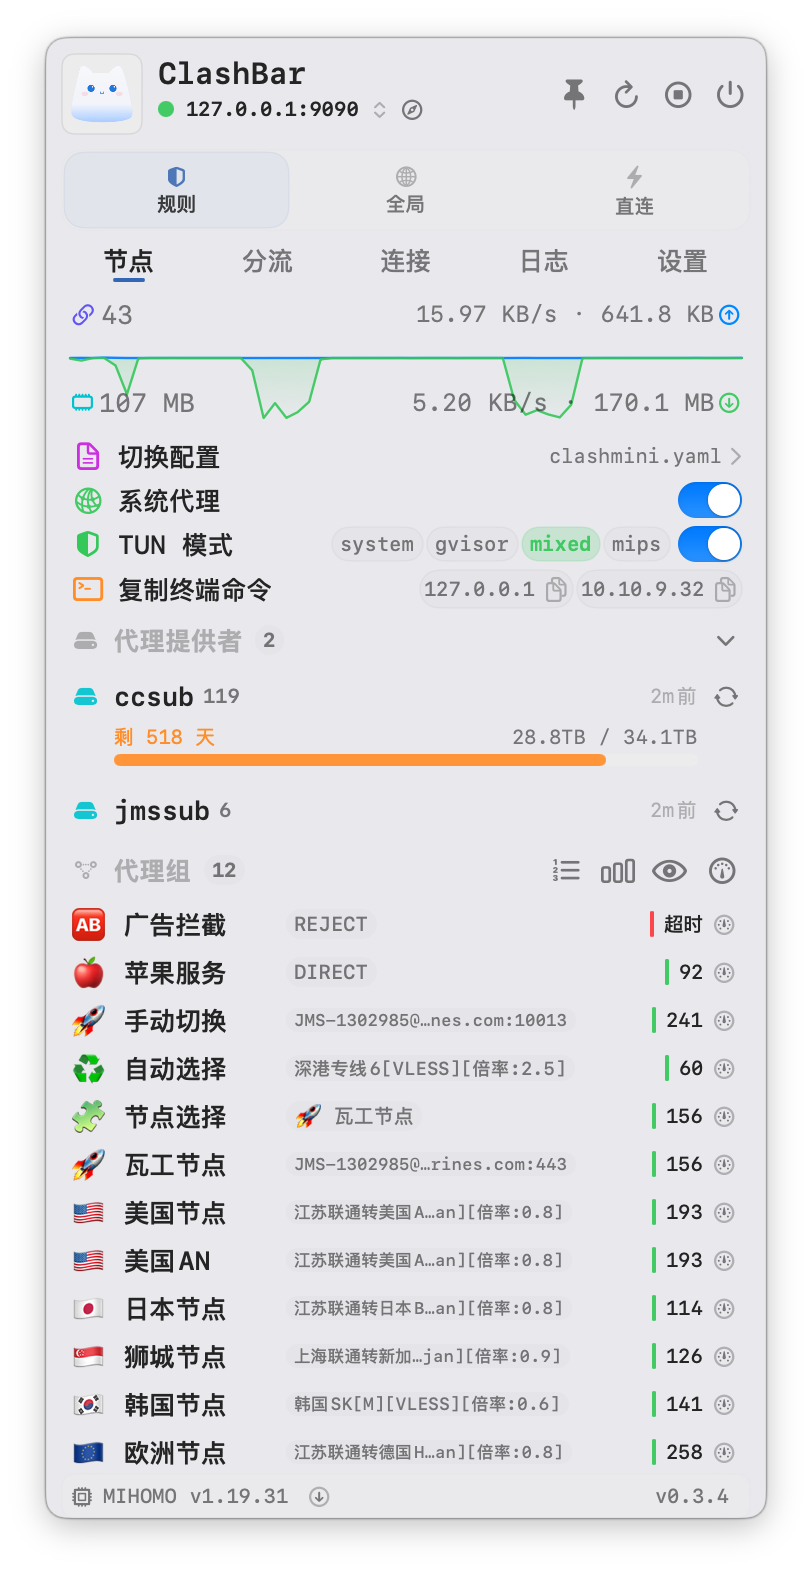
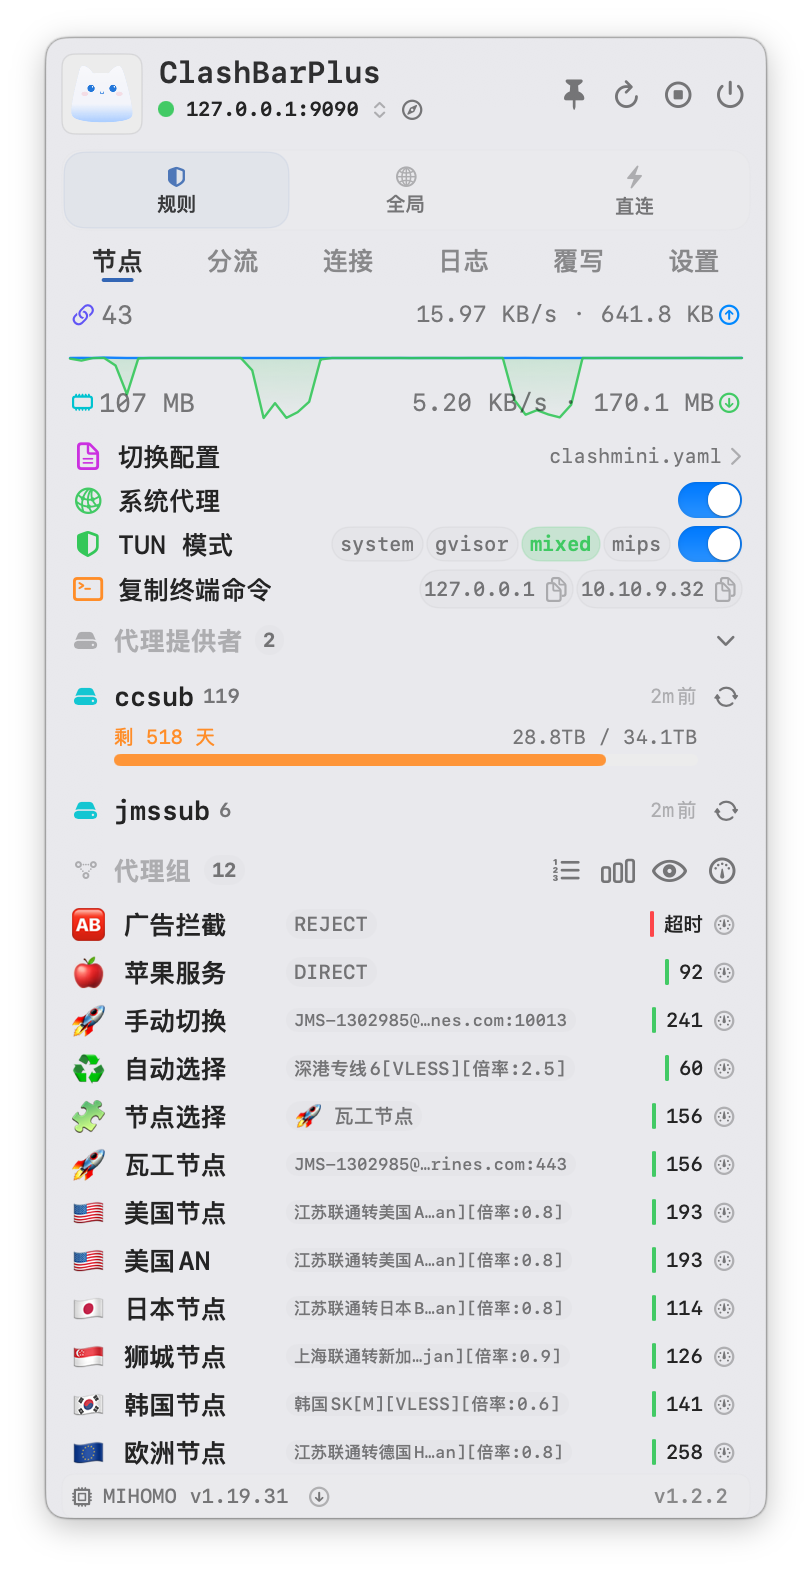
📝 docs: 更新预览图与 v1.2.2 发布说明

diff --git a/CHANGELOG.md b/CHANGELOG.md
@@ -1,3 +1,23 @@
+## v1.2.2
+
+![macOS](https://img.shields.io/badge/macOS-Supported-000000?style=flat-square&logo=apple) ![Version](https://img.shields.io/badge/Release-v1.2.2-10B981?style=flat-square) ![Core](https://img.shields.io/badge/Core-Mihomo-6366f1?style=flat-square)
+
+### 📝 更新日志 (Changelog)
+
+**✨ 新增功能 (New Features)**
+
+- ![Feature](https://img.shields.io/badge/Feature-10B981?style=flat-square) **搜索框一键清除**：分流、连接、日志页的搜索框新增清除按钮，方便快速清空筛选关键词。
+
+**🚀 优化改进 (Improvements)**
+
+- ![Optimize](https://img.shields.io/badge/Optimize-3B82F6?style=flat-square) **调整覆写与设置标签页顺序**：标签栏调整为「节点 / 分流 / 连接 / 日志 / 覆写 / 设置」，对应快捷键同步为 `⌥⌘5`（覆写）与 `⌥⌘6`（设置）。
+- ![Optimize](https://img.shields.io/badge/Optimize-3B82F6?style=flat-square) **优化更新订阅后代理组加载速度**：配置重载与代理集合更新完成后立即主动刷新代理组；解耦 `/proxies` 与 `/providers/proxies` 请求，放宽长耗时接口超时并移入独立连接池，缩短异常退避并消除面板打开时的重复并发请求。
+
+**🐞 修复问题 (Bug Fixes)**
+
+- ![Fix](https://img.shields.io/badge/Fix-EF4444?style=flat-square) **修复内核升级与订阅更新后运行时设置被重置**：在订阅重载、内核升级与 Geo 数据库更新前后自动快照并恢复代理模式、允许局域网、IPv6、TCP 并发、日志级别、端口及 TUN 设置。
+- ![Fix](https://img.shields.io/badge/Fix-EF4444?style=flat-square) **修复远程配置更新时间与倒计时显示**：远端内容未变时「上次」时间同步刷新；失败不再推迟整个自动更新周期（自动更新失败按 15 分钟退避重试）；补齐「更新全部远程配置」状态刷新、倒计时向上取整及整小时显示，并仅在面板打开时运行倒计时刷新定时器。
+
 ## v1.2.1
 
 ![macOS](https://img.shields.io/badge/macOS-Supported-000000?style=flat-square&logo=apple) ![Version](https://img.shields.io/badge/Release-v1.2.1-10B981?style=flat-square) ![Core](https://img.shields.io/badge/Core-Mihomo-6366f1?style=flat-square)

diff --git a/README.md b/README.md
@@ -104,6 +104,7 @@ ClashBarPlus 是 [Sitoi/ClashBar](https://github.com/Sitoi/ClashBar) 的 fork，
 | 📚 Rules       | 规则统计、筛选、Provider 更新                   |
 | 🌐 Connections | 连接过滤与关闭                                  |
 | 🪵 Logs        | 级别过滤、关键词检索                            |
+| 🔀 Override    | 规则覆写（前置/追加规则与规则集），保存即生效   |
 | ⚙ System      | 语言、状态栏、端口、`allow-lan` / `ipv6` 等     |
 
 📁 运行时数据目录：`~/Library/Application Support/clashbar`
